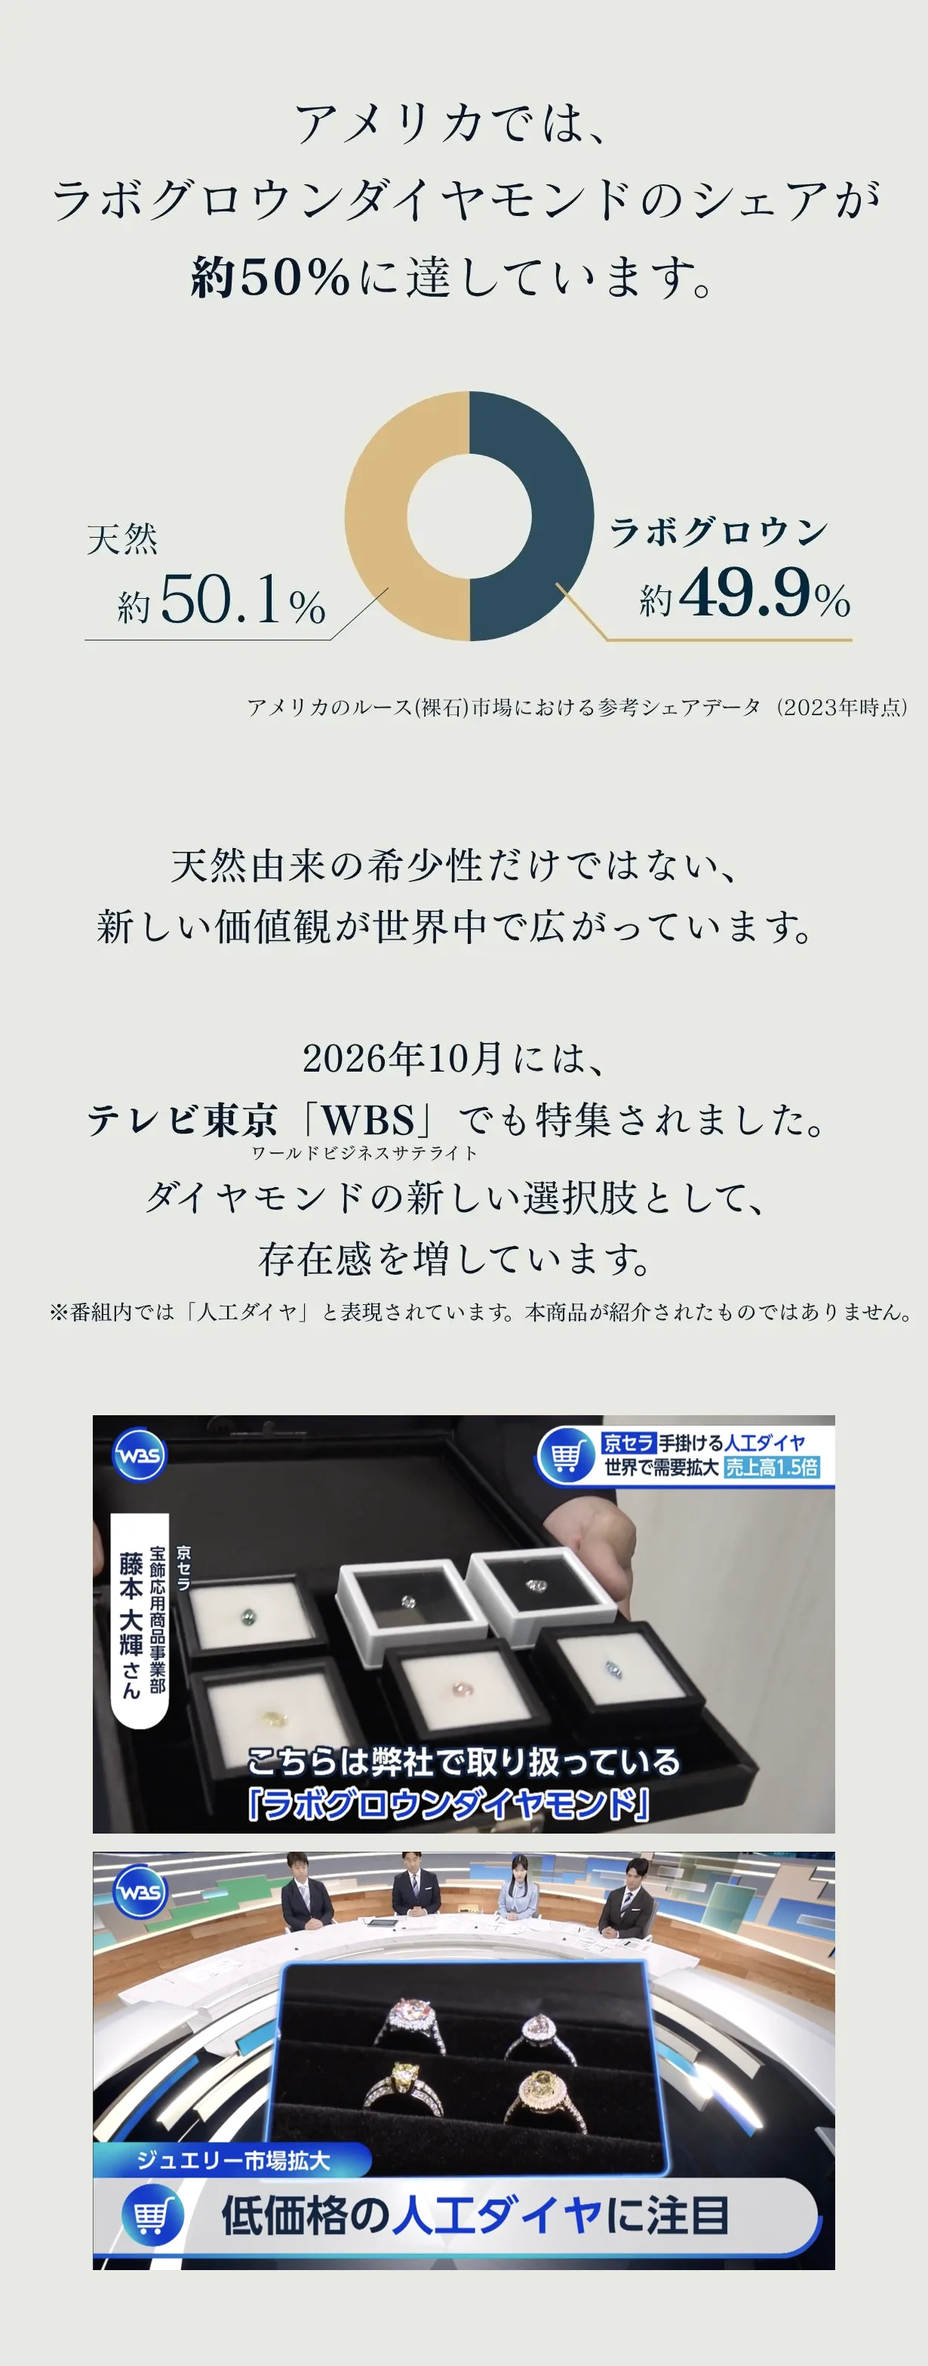
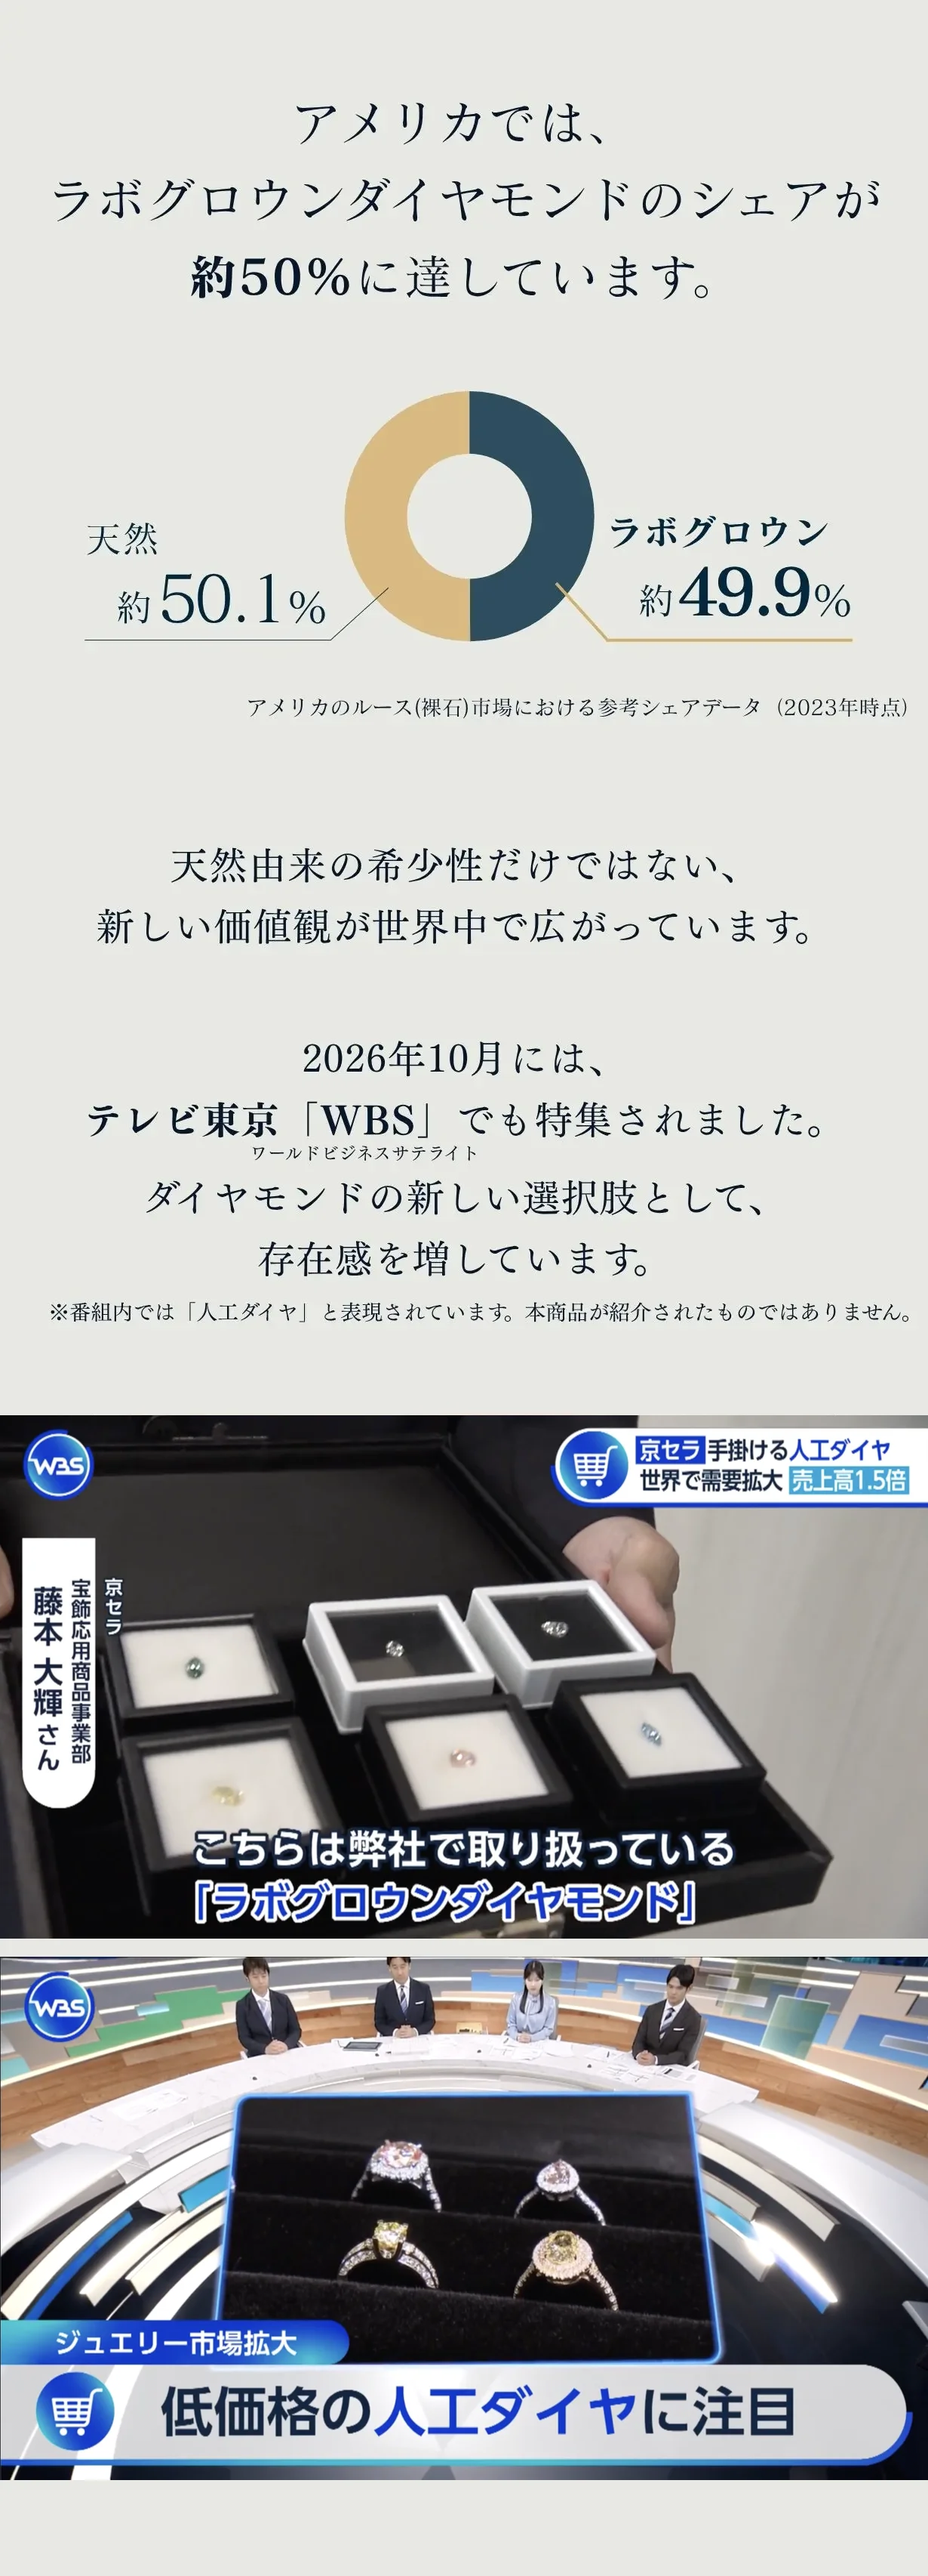
WBS放送画面を横幅いっぱいに表示して視認性を上げる

diff --git a/index.html b/index.html
@@ -18,7 +18,7 @@
 .line-float.is-visible{opacity:1;visibility:visible;transform:none}
 .line-float svg{width:32px;height:auto}
 @media(prefers-reduced-motion:reduce){.line-float{transition:none}}
-</style></head><body><main aria-label="MOHS ハーフエタニティリング"><div class="hero-banner"><img src="assets/fv-main.webp" width="1230" height="2187" alt="MOHS 1ctの輝きを、もっと日常に ラボグロウンダイヤモンドが輝く、ハーフエタニティリング 12.1 Makuake 先行販売 超早割 ¥89,800 限定3点" loading="eager" decoding="async"><a class="line-cta" href="https://lin.ee/tXXrxcO" target="_blank" rel="noopener noreferrer"><span>LINE登録でお得に</span><span class="cta-arrow" aria-hidden="true"></span></a></div><img src="assets/fv-copy.webp" width="1230" height="1230" alt="仕事の日も、休日も なんでもない日を、ほんの少し特別に。ふと目に入るたびに嬉しくなる。いつもの装いのなかに大粒ダイヤモンドの輝きを。6石で合計1ct IGI鑑定書付き ハーフエタニティリング" loading="eager" decoding="async"><img src="assets/2.webp" width="1230" height="1640" alt="MOHS 商品紹介 3" loading="eager" decoding="async"><div class="sale-banner"><img src="assets/sale-cta.webp" width="1230" height="1640" alt="Makuake 12.1 TUE 12:00 START 超早割 限定3点 一般販売価格¥139,800(税込)から35%OFF ¥89,800(税込) LINE事前登録の方限定 開始日時・商品情報・早割情報をLINE友だちご登録で優先的にご案内します" loading="eager" decoding="async"><a class="line-cta" href="https://lin.ee/tXXrxcO" target="_blank" rel="noopener noreferrer"><span>LINE登録でお得に</span><span class="cta-arrow" aria-hidden="true"></span></a></div><video class="ring-video" src="assets/ring-sparkle.mp4" poster="assets/ring-sparkle-poster.webp" width="1280" height="720" autoplay muted loop playsinline preload="metadata" aria-label="指輪のダイヤモンドがきらめく様子"></video><img src="assets/5.webp" width="1230" height="350" alt="MOHS 商品紹介 6" loading="lazy" decoding="async"><img src="assets/6.webp" width="1230" height="2984" alt="MOHS 商品紹介 7" loading="lazy" decoding="async"><img src="assets/7.webp" width="1230" height="350" alt="MOHS 商品紹介 8" loading="lazy" decoding="async"><img src="assets/8.webp" width="1230" height="2984" alt="ダイヤモンド。実は、とっても日常向き 擦り傷に強い・水に強い ダイヤモンドはモース硬度で最高値の10。宝石の中で最も硬く、日常生活での擦り傷が付きにくいのが特徴です。リングの手のひら側は地金のみで仕立て、着け心地にも配慮しました。ダイヤモンドを留める爪には丸みを。ストッキングやニットにも引っかかりにくいよう、細部まで工夫しています。" loading="lazy" decoding="async"><img src="assets/9.gif" width="738" height="984" alt="MOHS 商品紹介 10" loading="lazy" decoding="async"><img src="assets/10.webp" width="1230" height="820" alt="MOHS 商品紹介 11" loading="lazy" decoding="async"><img src="assets/11.webp" width="1230" height="2984" alt="MOHS 商品紹介 12" loading="lazy" decoding="async"><img src="assets/12.webp" width="1230" height="1230" alt="MOHS 商品紹介 13" loading="lazy" decoding="async"><img src="assets/13.webp" width="1230" height="350" alt="MOHS 商品紹介 14" loading="lazy" decoding="async"><img src="assets/14.webp" width="1230" height="2984" alt="ダイヤモンドを支える地金には、9Kホワイトゴールドを選びました。01 金のジュエリーであること 金を37.5%含む9Kゴールド。02 日々のお手入れが楽であること 03 価格とのバランスがよいこと 18Kより金の含有率を抑え、石の存在感と金地金を、無理のない価格で。素材のアップグレードも可能です ご希望に応じて、18Kホワイトゴールド・プラチナ(Pt950)への変更も承ります。※オプション料金がかかります" loading="lazy" decoding="async"><img src="assets/17.webp" width="1230" height="350" alt="MOHS 商品紹介 18" loading="lazy" decoding="async"><img src="assets/18.webp" width="1230" height="3133" alt="アメリカでは、ラボグロウンダイヤモンドのシェアが約50%に達しています。天然約50.1% ラボグロウン約49.9%。天然由来の希少性だけではない、新しい価値観が世界中で広がっています。2026年10月には、テレビ東京「WBS」でも特集されました。ダイヤモンドの新しい選択肢として、存在感を増しています。※番組内では「人工ダイヤ」と表現されています。本商品が紹介されたものではありません。WBSの放送画面：京セラ手掛ける人工ダイヤ 世界で需要拡大、低価格の人工ダイヤに注目" loading="lazy" decoding="async"><img src="assets/19.webp" width="1230" height="350" alt="MOHS 商品紹介 20" loading="lazy" decoding="async"><img src="assets/20.webp" width="1230" height="1230" alt="MOHS 商品紹介 21" loading="lazy" decoding="async"><img src="assets/21.webp" width="1230" height="820" alt="MOHS 商品紹介 22" loading="lazy" decoding="async"><img src="assets/22.webp" width="1230" height="2984" alt="MOHS 商品紹介 23" loading="lazy" decoding="async"><aside class="quality-notes" aria-label="ダイヤモンドの品質と鑑定書についての注意事項"><p>※上記グレードは仕入れ元の品質基準です。カットグレードは鑑定書には記載されていません。</p><p>※鑑定書は完成品のリングに対して発行されるもので、一石ごとに付属するものではありません。</p></aside><img src="assets/23.webp" width="1230" height="350" alt="MOHS 商品紹介 24" loading="lazy" decoding="async"><div class="origin-copy"><p>世界各地から宝石やバイヤーが集まるタイは、ジュエリーの製造・取引で世界的に知られる拠点のひとつです。</p></div><img src="assets/24.webp" width="1230" height="1640" alt="MOHS 商品紹介 25" loading="lazy" decoding="async"><div class="origin-copy"><p>旅行先のこの地で、ラボグロウンダイヤモンドのジュエリーを手に取りました。</p><p>その美しさと、ダイヤモンドをもっと身近に楽しめる選択肢があることに、心を動かされました。</p><p><strong>「この輝きを、もっと日常の中で楽しめたら。」</strong></p><p>帰国後もその思いは変わらず、素材や品質、価格について検討を重ねました。</p></div><img src="assets/25.webp" width="1230" height="820" alt="MOHS 商品紹介 26" loading="lazy" decoding="async"><div class="origin-copy"><p>タイで出会ったジュエラーとのやり取りを通じて、その思いを形にしたのが、MOHS JEWELRYの最初のリングです。</p></div><img src="assets/26.webp" width="1230" height="350" alt="MOHS 商品紹介 27" loading="lazy" decoding="async"><img src="assets/27.webp" width="1230" height="1230" alt="MOHS 商品紹介 28" loading="lazy" decoding="async"><img src="assets/28.webp" width="1230" height="1230" alt="MOHS 商品紹介 29" loading="lazy" decoding="async"><img src="assets/29.webp" width="1230" height="1230" alt="MOHS 商品紹介 30" loading="lazy" decoding="async"><img src="assets/30.webp" width="1230" height="1640" alt="MOHS 商品紹介 31" loading="lazy" decoding="async"><img src="assets/31.webp" width="1230" height="1640" alt="MOHS 商品紹介 32" loading="lazy" decoding="async"><img src="assets/32.webp" width="1230" height="350" alt="MOHS 商品紹介 33" loading="lazy" decoding="async"><section class="detail-copy" aria-label="お届け後のサポートの詳細">
+</style></head><body><main aria-label="MOHS ハーフエタニティリング"><div class="hero-banner"><img src="assets/fv-main.webp" width="1230" height="2187" alt="MOHS 1ctの輝きを、もっと日常に ラボグロウンダイヤモンドが輝く、ハーフエタニティリング 12.1 Makuake 先行販売 超早割 ¥89,800 限定3点" loading="eager" decoding="async"><a class="line-cta" href="https://lin.ee/tXXrxcO" target="_blank" rel="noopener noreferrer"><span>LINE登録でお得に</span><span class="cta-arrow" aria-hidden="true"></span></a></div><img src="assets/fv-copy.webp" width="1230" height="1230" alt="仕事の日も、休日も なんでもない日を、ほんの少し特別に。ふと目に入るたびに嬉しくなる。いつもの装いのなかに大粒ダイヤモンドの輝きを。6石で合計1ct IGI鑑定書付き ハーフエタニティリング" loading="eager" decoding="async"><img src="assets/2.webp" width="1230" height="1640" alt="MOHS 商品紹介 3" loading="eager" decoding="async"><div class="sale-banner"><img src="assets/sale-cta.webp" width="1230" height="1640" alt="Makuake 12.1 TUE 12:00 START 超早割 限定3点 一般販売価格¥139,800(税込)から35%OFF ¥89,800(税込) LINE事前登録の方限定 開始日時・商品情報・早割情報をLINE友だちご登録で優先的にご案内します" loading="eager" decoding="async"><a class="line-cta" href="https://lin.ee/tXXrxcO" target="_blank" rel="noopener noreferrer"><span>LINE登録でお得に</span><span class="cta-arrow" aria-hidden="true"></span></a></div><video class="ring-video" src="assets/ring-sparkle.mp4" poster="assets/ring-sparkle-poster.webp" width="1280" height="720" autoplay muted loop playsinline preload="metadata" aria-label="指輪のダイヤモンドがきらめく様子"></video><img src="assets/5.webp" width="1230" height="350" alt="MOHS 商品紹介 6" loading="lazy" decoding="async"><img src="assets/6.webp" width="1230" height="2984" alt="MOHS 商品紹介 7" loading="lazy" decoding="async"><img src="assets/7.webp" width="1230" height="350" alt="MOHS 商品紹介 8" loading="lazy" decoding="async"><img src="assets/8.webp" width="1230" height="2984" alt="ダイヤモンド。実は、とっても日常向き 擦り傷に強い・水に強い ダイヤモンドはモース硬度で最高値の10。宝石の中で最も硬く、日常生活での擦り傷が付きにくいのが特徴です。リングの手のひら側は地金のみで仕立て、着け心地にも配慮しました。ダイヤモンドを留める爪には丸みを。ストッキングやニットにも引っかかりにくいよう、細部まで工夫しています。" loading="lazy" decoding="async"><img src="assets/9.gif" width="738" height="984" alt="MOHS 商品紹介 10" loading="lazy" decoding="async"><img src="assets/10.webp" width="1230" height="820" alt="MOHS 商品紹介 11" loading="lazy" decoding="async"><img src="assets/11.webp" width="1230" height="2984" alt="MOHS 商品紹介 12" loading="lazy" decoding="async"><img src="assets/12.webp" width="1230" height="1230" alt="MOHS 商品紹介 13" loading="lazy" decoding="async"><img src="assets/13.webp" width="1230" height="350" alt="MOHS 商品紹介 14" loading="lazy" decoding="async"><img src="assets/14.webp" width="1230" height="2984" alt="ダイヤモンドを支える地金には、9Kホワイトゴールドを選びました。01 金のジュエリーであること 金を37.5%含む9Kゴールド。02 日々のお手入れが楽であること 03 価格とのバランスがよいこと 18Kより金の含有率を抑え、石の存在感と金地金を、無理のない価格で。素材のアップグレードも可能です ご希望に応じて、18Kホワイトゴールド・プラチナ(Pt950)への変更も承ります。※オプション料金がかかります" loading="lazy" decoding="async"><img src="assets/17.webp" width="1230" height="350" alt="MOHS 商品紹介 18" loading="lazy" decoding="async"><img src="assets/18.webp" width="1230" height="3411" alt="アメリカでは、ラボグロウンダイヤモンドのシェアが約50%に達しています。天然約50.1% ラボグロウン約49.9%。天然由来の希少性だけではない、新しい価値観が世界中で広がっています。2026年10月には、テレビ東京「WBS」でも特集されました。ダイヤモンドの新しい選択肢として、存在感を増しています。※番組内では「人工ダイヤ」と表現されています。本商品が紹介されたものではありません。WBSの放送画面：京セラ手掛ける人工ダイヤ 世界で需要拡大、低価格の人工ダイヤに注目" loading="lazy" decoding="async"><img src="assets/19.webp" width="1230" height="350" alt="MOHS 商品紹介 20" loading="lazy" decoding="async"><img src="assets/20.webp" width="1230" height="1230" alt="MOHS 商品紹介 21" loading="lazy" decoding="async"><img src="assets/21.webp" width="1230" height="820" alt="MOHS 商品紹介 22" loading="lazy" decoding="async"><img src="assets/22.webp" width="1230" height="2984" alt="MOHS 商品紹介 23" loading="lazy" decoding="async"><aside class="quality-notes" aria-label="ダイヤモンドの品質と鑑定書についての注意事項"><p>※上記グレードは仕入れ元の品質基準です。カットグレードは鑑定書には記載されていません。</p><p>※鑑定書は完成品のリングに対して発行されるもので、一石ごとに付属するものではありません。</p></aside><img src="assets/23.webp" width="1230" height="350" alt="MOHS 商品紹介 24" loading="lazy" decoding="async"><div class="origin-copy"><p>世界各地から宝石やバイヤーが集まるタイは、ジュエリーの製造・取引で世界的に知られる拠点のひとつです。</p></div><img src="assets/24.webp" width="1230" height="1640" alt="MOHS 商品紹介 25" loading="lazy" decoding="async"><div class="origin-copy"><p>旅行先のこの地で、ラボグロウンダイヤモンドのジュエリーを手に取りました。</p><p>その美しさと、ダイヤモンドをもっと身近に楽しめる選択肢があることに、心を動かされました。</p><p><strong>「この輝きを、もっと日常の中で楽しめたら。」</strong></p><p>帰国後もその思いは変わらず、素材や品質、価格について検討を重ねました。</p></div><img src="assets/25.webp" width="1230" height="820" alt="MOHS 商品紹介 26" loading="lazy" decoding="async"><div class="origin-copy"><p>タイで出会ったジュエラーとのやり取りを通じて、その思いを形にしたのが、MOHS JEWELRYの最初のリングです。</p></div><img src="assets/26.webp" width="1230" height="350" alt="MOHS 商品紹介 27" loading="lazy" decoding="async"><img src="assets/27.webp" width="1230" height="1230" alt="MOHS 商品紹介 28" loading="lazy" decoding="async"><img src="assets/28.webp" width="1230" height="1230" alt="MOHS 商品紹介 29" loading="lazy" decoding="async"><img src="assets/29.webp" width="1230" height="1230" alt="MOHS 商品紹介 30" loading="lazy" decoding="async"><img src="assets/30.webp" width="1230" height="1640" alt="MOHS 商品紹介 31" loading="lazy" decoding="async"><img src="assets/31.webp" width="1230" height="1640" alt="MOHS 商品紹介 32" loading="lazy" decoding="async"><img src="assets/32.webp" width="1230" height="350" alt="MOHS 商品紹介 33" loading="lazy" decoding="async"><section class="detail-copy" aria-label="お届け後のサポートの詳細">
 <p>長くご愛用いただけるよう、修理やサイズ直しなど、お届け後のご相談も承ります。</p>
 <h3>品質保証</h3><p>お届け時に初期不良が認められた場合は、無償で修理または交換いたします。商品到着後14日以内にご連絡ください。</p>
 <h3>修理・サイズ直し</h3><p>ご使用による傷・変形・破損や、サイズ直しは有償で承ります。対応の可否や費用は、リングの状態により異なります。</p>
